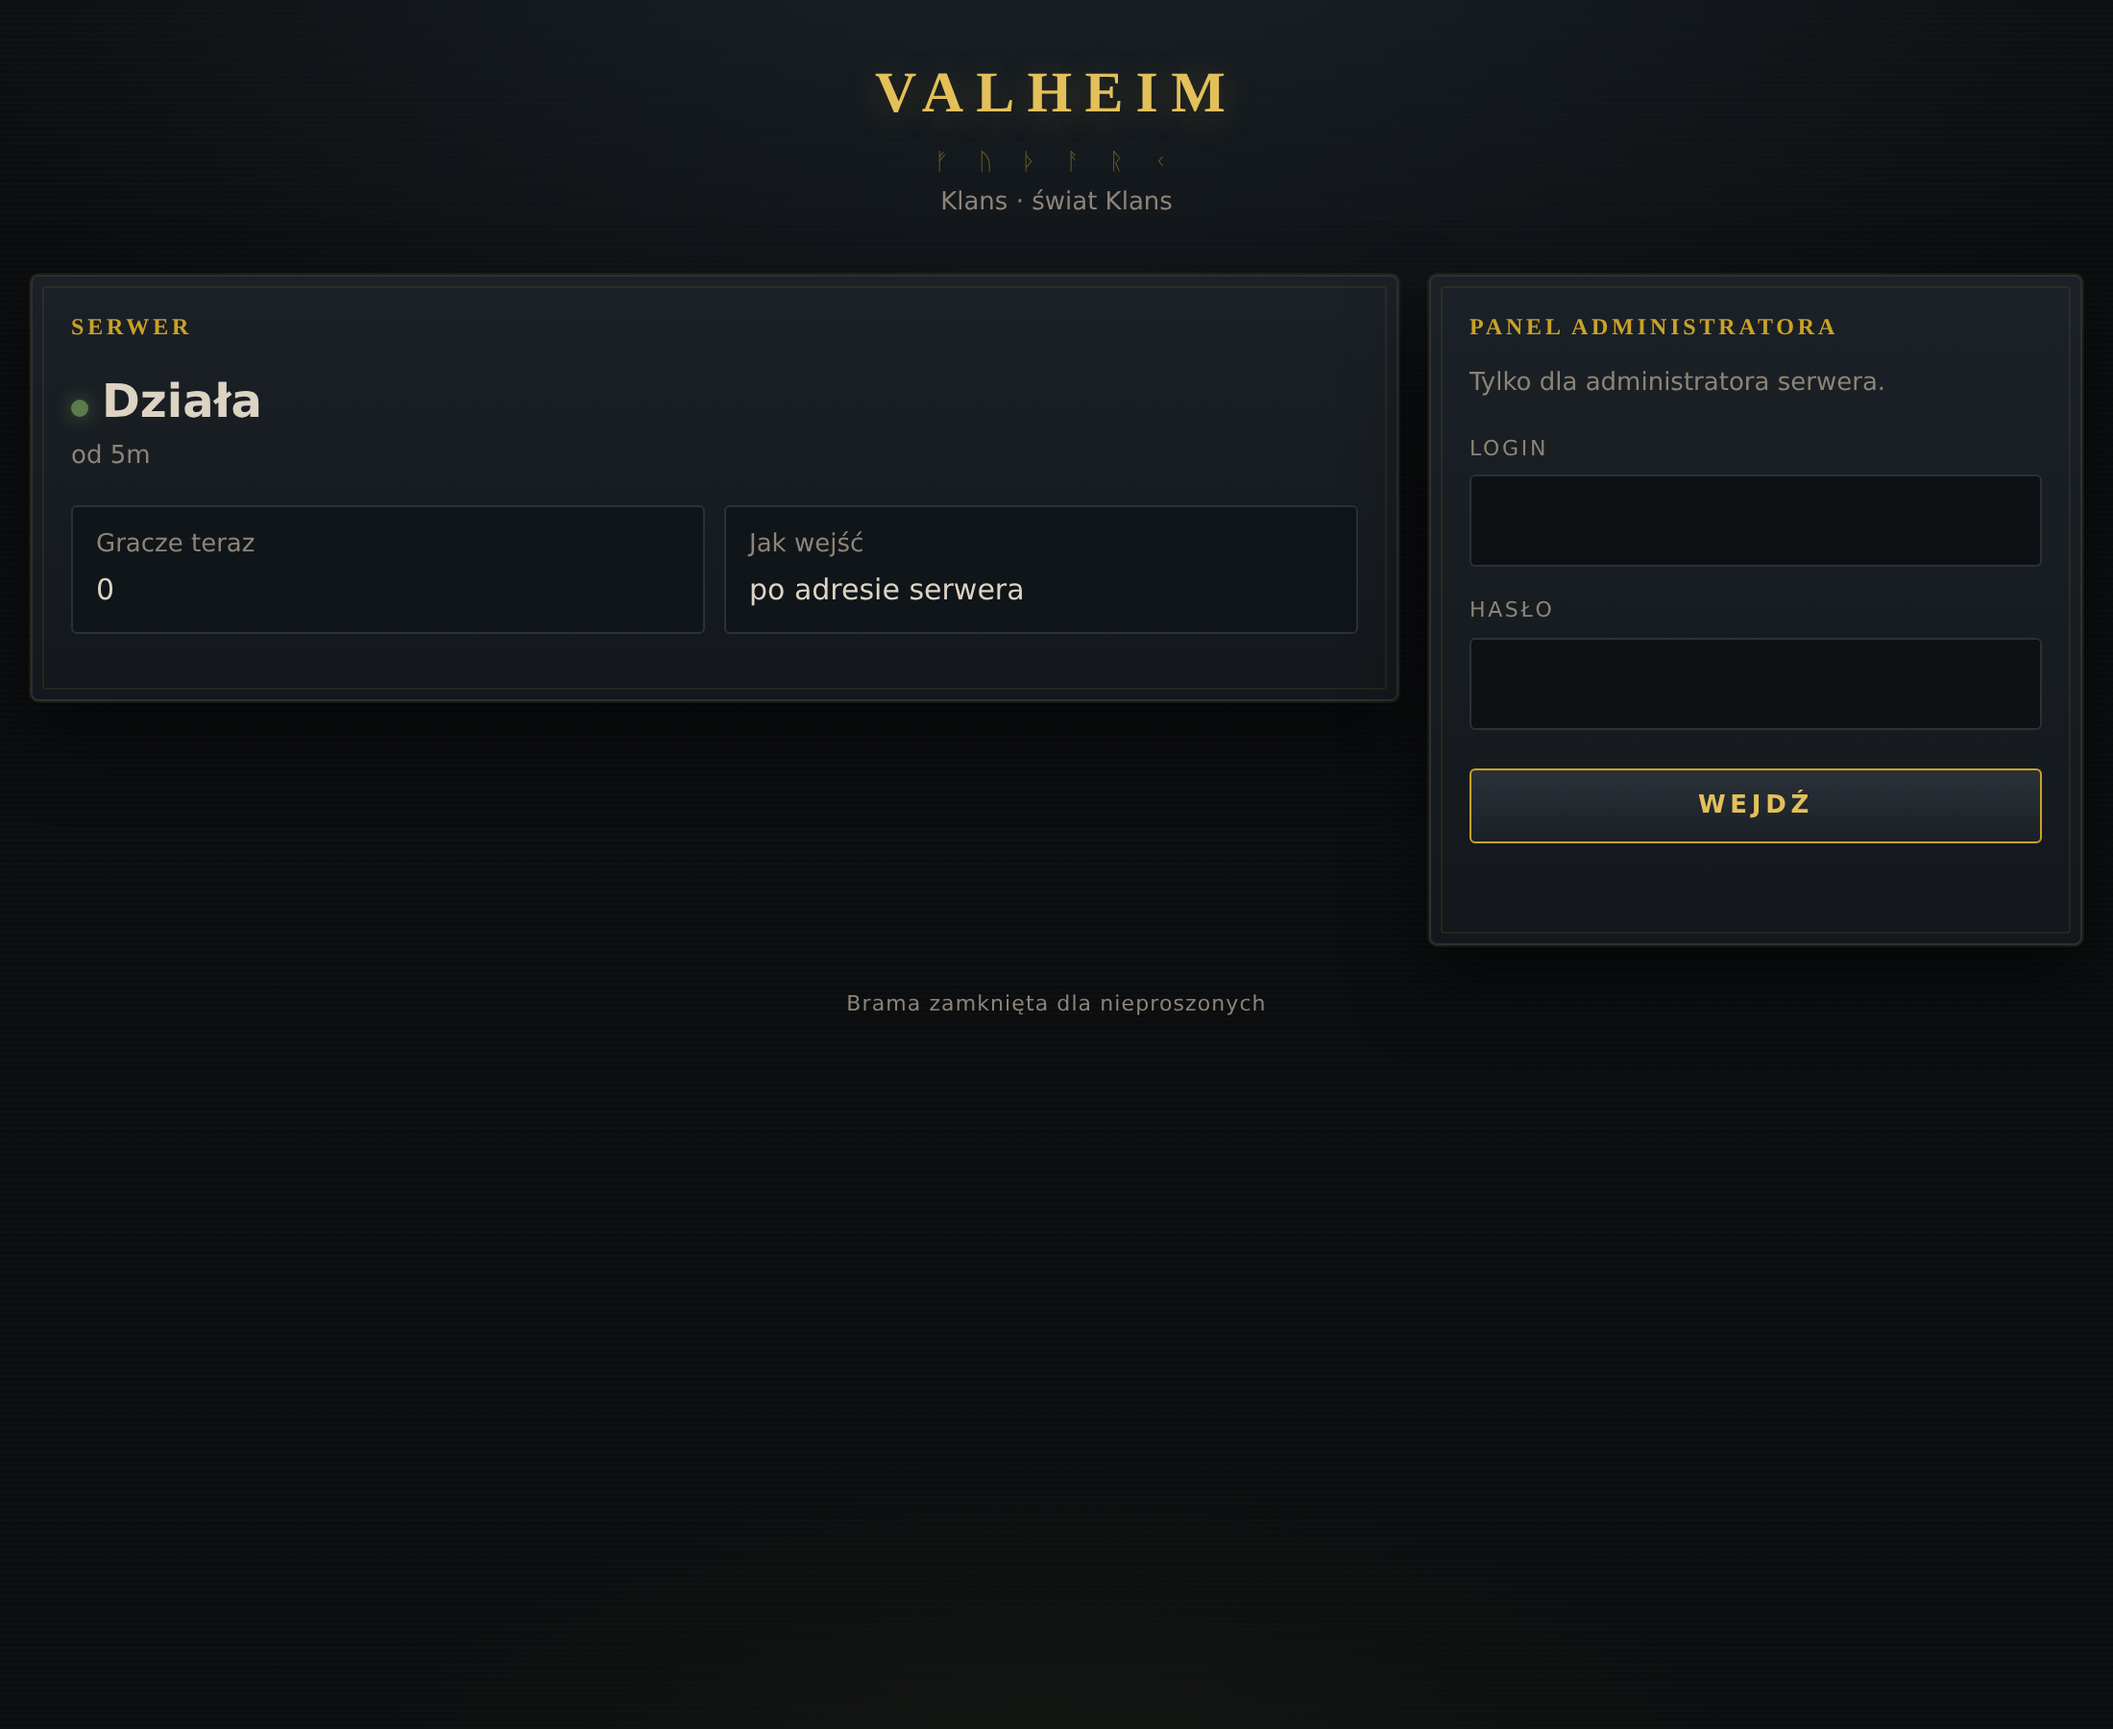
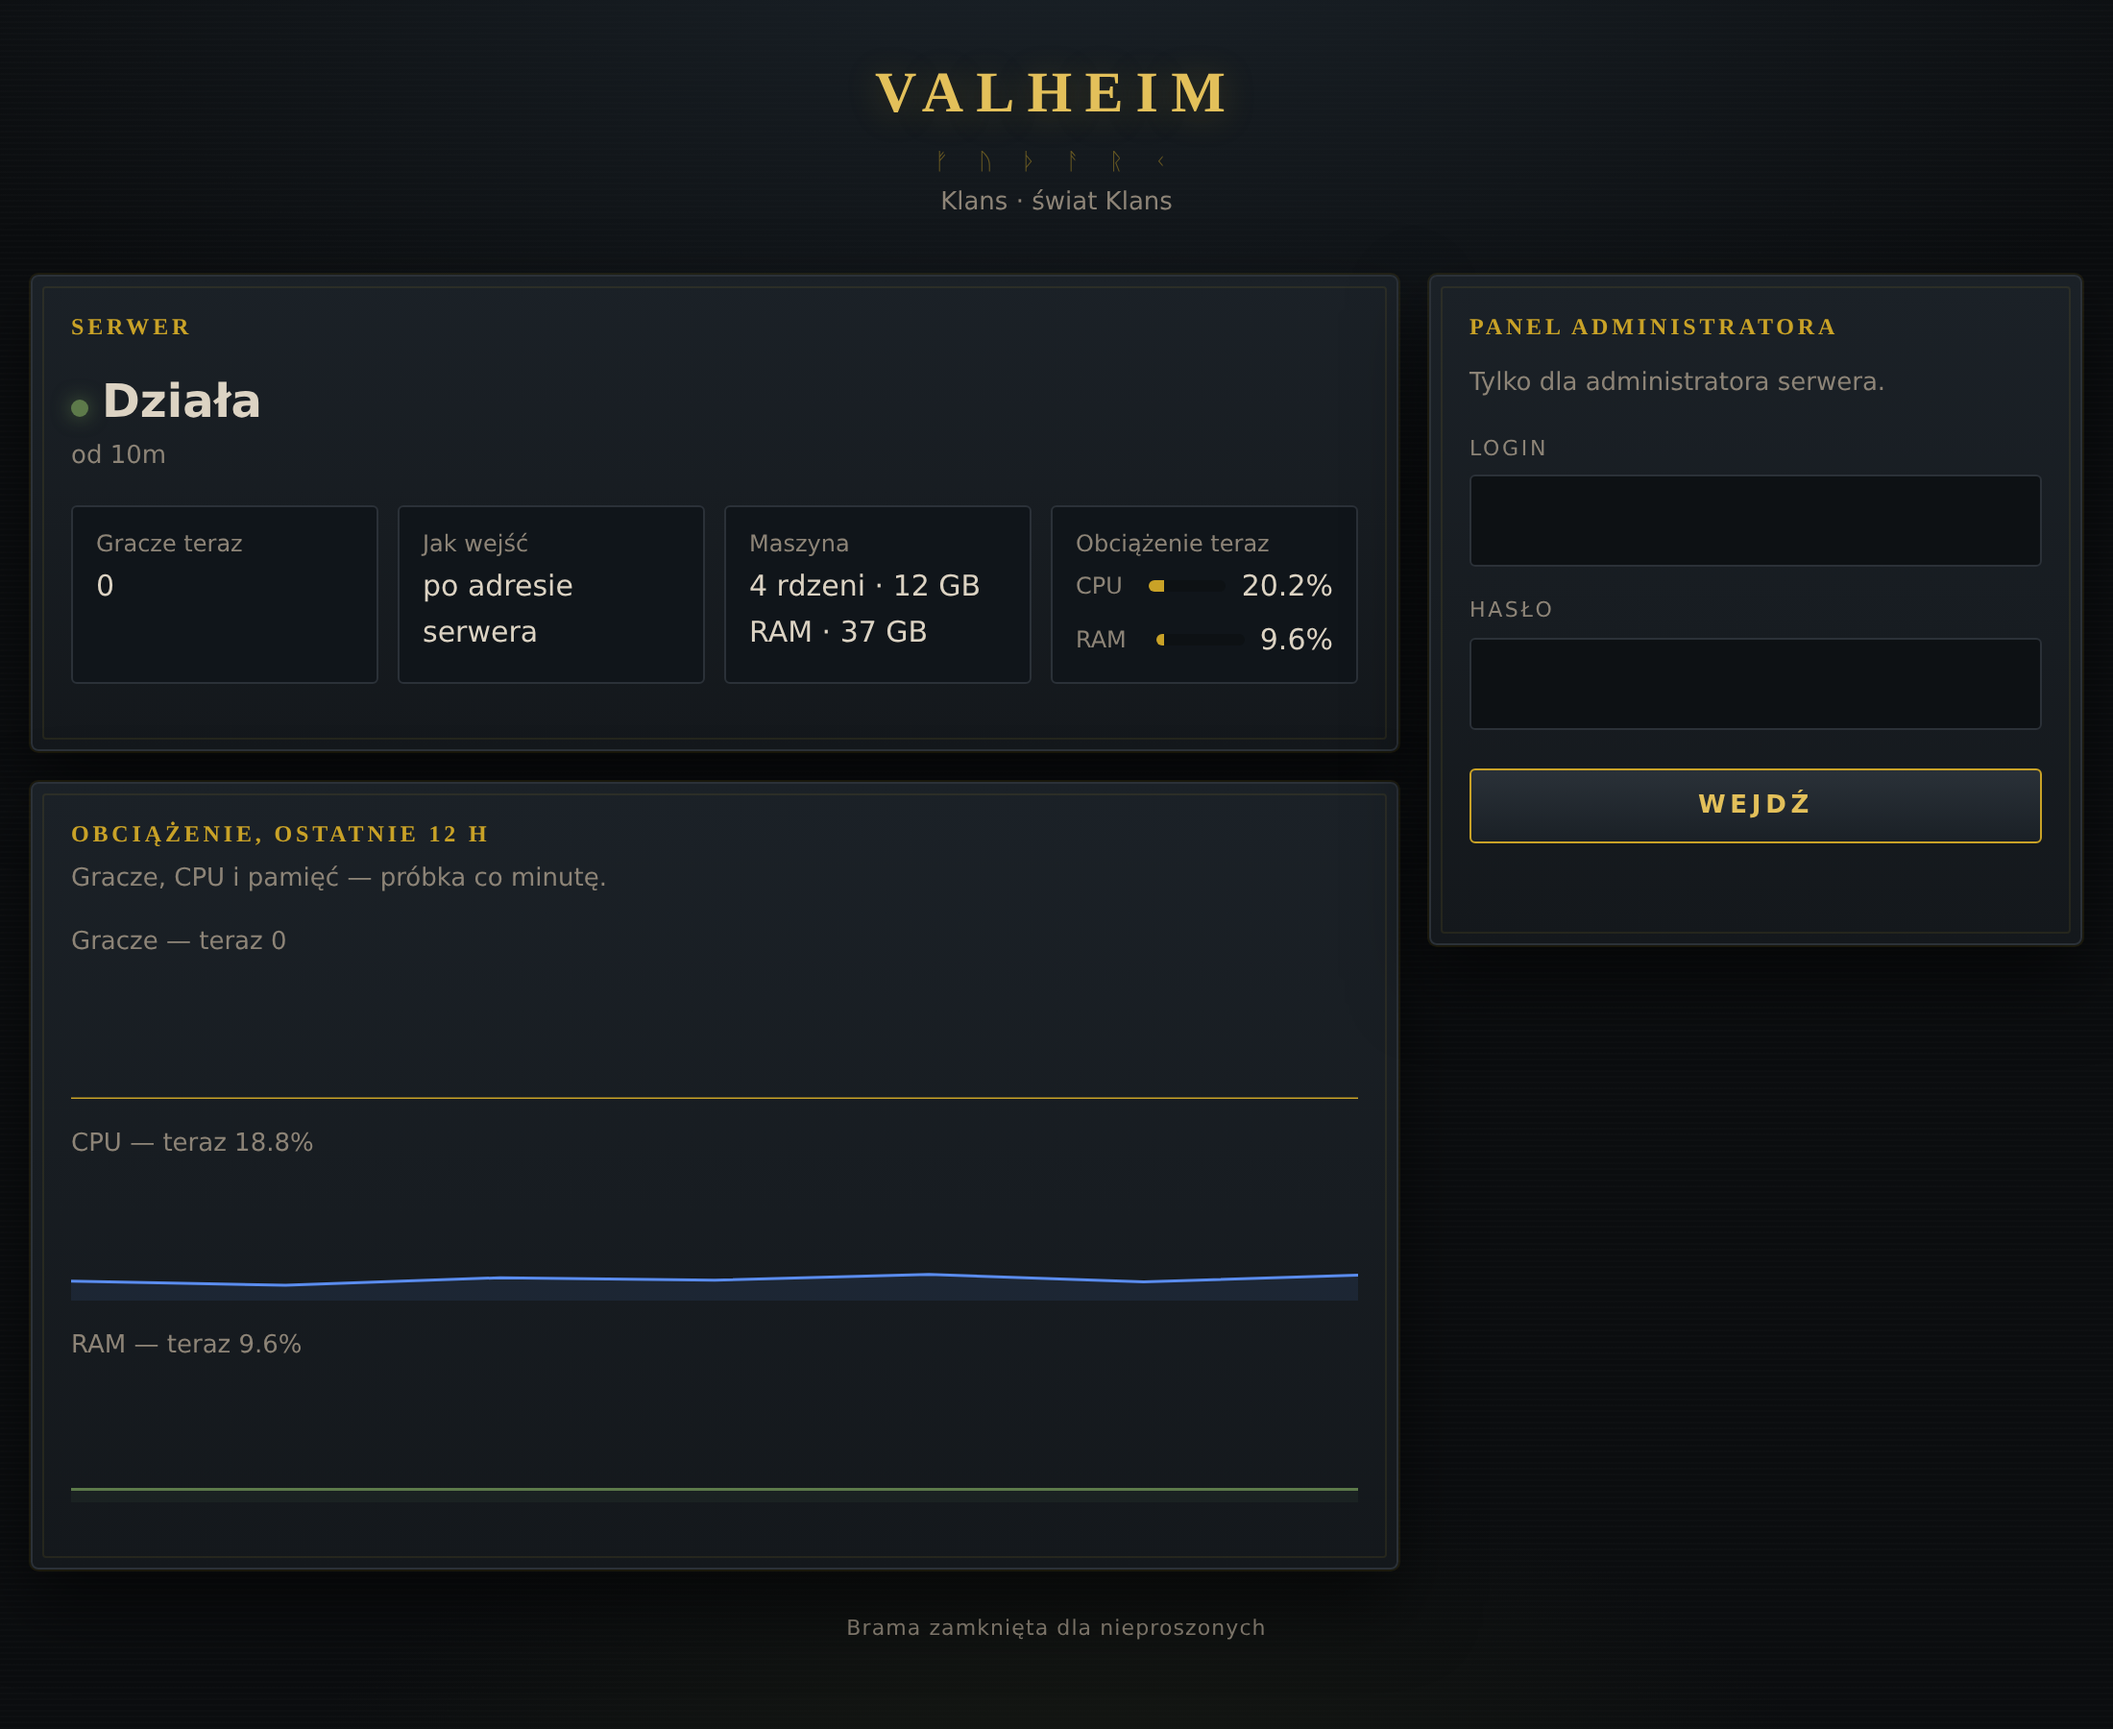
public page: machine specs and a live CPU/RAM reading, behind their own switch

diff --git a/panel/login.html b/panel/login.html
@@ -33,6 +33,7 @@
   .muted{color:var(--dim);font-size:13px}
   .grid{display:grid;gap:10px;grid-template-columns:repeat(auto-fit,minmax(150px,1fr));margin-bottom:14px}
   .cell{background:#10151a;border:1px solid var(--line);border-radius:3px;padding:10px 12px}
+  .cell .muted{font-size:12px}
   .dot{display:inline-block;width:9px;height:9px;border-radius:50%;margin-right:7px}
   .dot.up{background:var(--ok);box-shadow:0 0 10px rgba(93,122,74,.8)}
   .dot.down{background:var(--bad)}
@@ -82,6 +83,7 @@
 
       <div class="box" id="chart-box" style="margin-top:16px;display:none">
         <h2 id="h-charts">Obciążenie, ostatnie 12 h</h2>
+      <div class="muted" style="margin:-6px 0 12px" id="charts-hint">Gracze, CPU i pamięć — próbka co minutę.</div>
         <div id="charts"></div>
       </div>
     </div>
@@ -106,15 +108,21 @@ const PL=!(navigator.language||"").startsWith("en");
 const T=PL?{}:{ "Serwer":"Server","Mody":"Mods","Obciążenie, ostatnie 12 h":"Load, last 12 h",
  "Panel administratora":"Admin panel","Tylko dla administratora serwera.":"Server admin only.",
  "Login":"User","Hasło":"Password","Wejdź":"Enter","Paczka":"Package","Wersja":"Version",
- "Brama zamknięta dla nieproszonych":"The gate stays shut for the uninvited"};
+ "Brama zamknięta dla nieproszonych":"The gate stays shut for the uninvited",
+ "Gracze, CPU i pamięć — próbka co minutę.":"Players, CPU and memory — sampled every minute."};
 const tr=s=>T[s]||s;
-["h-status","h-mods","h-charts","h-login","login-hint","l-user","l-pass","b","th-mod","th-ver","foot"]
+["h-status","h-mods","h-charts","charts-hint","h-login","login-hint","l-user","l-pass","b","th-mod","th-ver","foot"]
   .forEach(id=>{const el=document.getElementById(id);if(el)el.textContent=tr(el.textContent);});
 
 const fmtDur=s=>{s=Math.max(0,Math.floor(s));const d=Math.floor(s/86400),h=Math.floor(s%86400/3600),m=Math.floor(s%3600/60);
   return d?`${d}d ${h}h`:h?`${h}h ${m}m`:`${m}m`;};
 const esc=s=>String(s).replace(/[&<>"]/g,c=>({"&":"&amp;","<":"&lt;",">":"&gt;",'"':"&quot;"}[c]));
 function cell(k,v){return `<div class="cell"><div class="muted">${k}</div><div>${v}</div></div>`;}
+function bar(pct){
+  const col=pct>=90?"var(--bad)":pct>=70?"#b8860b":"var(--gold)";
+  return `<span style="display:inline-block;flex:1;min-width:40px;height:6px;background:#0d1114;border-radius:3px;vertical-align:middle;overflow:hidden">
+    <span style="display:block;height:100%;width:${Math.min(100,pct)}%;background:${col}"></span></span>`;
+}
 
 function chart(title,pts,color,unit,max){
   if(!pts.length)return "";
@@ -150,6 +158,13 @@ async function load(){
     if(d.port)c.push(cell(PL?"Port":"Port",d.port+"–"+(d.port+2)+" UDP"));
     if(d.password_required!==undefined)c.push(cell(PL?"Hasło do wejścia":"Password to join",
       d.password_required?(PL?"tak":"yes"):(PL?"nie":"no")));
+    if(d.specs){
+      const gb=b=>b?(b/1073741824).toFixed(b<10*1073741824?1:0)+" GB":"—";
+      c.push(cell(PL?"Maszyna":"Machine",`${d.specs.cores} ${PL?"rdzeni":"cores"} · ${gb(d.specs.ram)} RAM · ${gb(d.specs.disk)}`));
+      if(d.load)c.push(cell(PL?"Obciążenie teraz":"Load right now",
+        `<div style="display:flex;gap:8px;align-items:center"><span class="muted" style="width:34px">CPU</span>${bar(d.load.cpu)}<span>${d.load.cpu}%</span></div>
+         <div style="display:flex;gap:8px;align-items:center;margin-top:4px"><span class="muted" style="width:34px">RAM</span>${bar(d.load.mem)}<span>${d.load.mem}%</span></div>`));
+    }
     document.getElementById("cells").innerHTML=c.join("");
     if(d.note)document.getElementById("note").textContent=d.note;
 

diff --git a/panel/index.html b/panel/index.html
@@ -455,6 +455,7 @@ const I18N={
  "Load charts":"Wykresy obciążenia",
  "Server version":"Wersja serwera",
  "Port and whether a password is needed":"Port i czy potrzebne jest hasło",
+ "Machine specs and live load":"Parametry maszyny i obciążenie na żywo",
  "Valheim — server admin":"Valheim — panel serwera",
  "Everything a server admin can control. In-game commands (kick, spawn, weather)":"Wszystko, czym steruje admin serwera. Komendy w grze (kick, spawn, pogoda)",
  "live in the F5 console — add yourself to":"są w konsoli F5 — dopisz się do",
@@ -781,7 +782,7 @@ function vhSettings(v){
   if(!$("vh-au-user").value)$("vh-au-user").value=s.panel_user||"admin";
   if(!$("pub-flags").children.length)vhPublic();
 }
-const PUB_LABELS={enabled:"Show the page at all",show_players:"Number of players online",
+const PUB_LABELS={enabled:"Show the page at all",show_specs:"Machine specs and live load",show_players:"Number of players online",
   show_names:"Their names",show_mods:"Mod list and share code",show_metrics:"Load charts",
   show_version:"Server version",show_address:"Port and whether a password is needed"};
 async function vhPublic(){
@@ -1533,7 +1534,7 @@ function vhSettings(v){
   if(!$("vh-au-user").value)$("vh-au-user").value=s.panel_user||"admin";
   if(!$("pub-flags").children.length)vhPublic();
 }
-const PUB_LABELS={enabled:"Show the page at all",show_players:"Number of players online",
+const PUB_LABELS={enabled:"Show the page at all",show_specs:"Machine specs and live load",show_players:"Number of players online",
   show_names:"Their names",show_mods:"Mod list and share code",show_metrics:"Load charts",
   show_version:"Server version",show_address:"Port and whether a password is needed"};
 async function vhPublic(){

diff --git a/panel/app.py b/panel/app.py
@@ -1408,7 +1408,7 @@ METRIC_POINTS = 1440          # one a minute = last 24 h
 # load chart tell a stranger what runs there and when nobody is watching.
 PUBLIC_DEFAULT = {"enabled": True, "show_players": True, "show_names": False,
                   "show_mods": False, "show_metrics": False, "show_version": False,
-                  "show_address": False, "note": ""}
+                  "show_address": False, "show_specs": False, "note": ""}
 VH_COUNT = Path(f"{VH_DIR}/players.count")   # read by update.sh so it can hold off too
 ALERT_EVENTS = {
     "server_down": "Server stopped",
@@ -1541,6 +1541,20 @@ def public_status():
     if cfg.get("show_mods"):
         out["mods"] = [{"full_name": k, "version": v.get("version")} for k, v in sorted(st.get("mods", {}).items())]
         out["profile_code"] = st.get("profile_code")
+    if cfg.get("show_specs"):
+        m = (_sections(_sh("echo '@machine'; cat /proc/loadavg; nproc; "
+                           "awk '/MemTotal|MemAvailable/{print $2}' /proc/meminfo",
+                           timeout=20).stdout).get("machine") or [])
+        try:
+            la = m[0].split()
+            cores, total, avail = int(m[1]), int(m[2]) * 1024, int(m[3]) * 1024
+            disk = _sh(f"df -B1 --output=used,avail {VH_DIR} | tail -1").stdout.split()
+            out["specs"] = {"cores": cores, "ram": total,
+                            "disk": (int(disk[0]) + int(disk[1])) if len(disk) == 2 else None}
+            out["load"] = {"cpu": round(100 * float(la[0]) / cores, 1),
+                           "mem": round(100 * (1 - avail / total), 1)}
+        except Exception:
+            pass
     if cfg.get("show_metrics"):
         try:
             out["metrics"] = json.loads(VH_METRICS.read_text())[-720:]
@@ -1558,7 +1572,7 @@ def public_cfg_get():
 def public_cfg_set(body: dict = Body(...)):
     cfg = _public_cfg()
     for k in ("enabled", "show_players", "show_names", "show_mods", "show_metrics",
-              "show_version", "show_address"):
+              "show_version", "show_address", "show_specs"):
         if k in body:
             cfg[k] = bool(body[k])
     if "note" in body:

diff --git a/README.md b/README.md
@@ -62,7 +62,7 @@ server up or down, uptime, how many are playing, and how to join — with the lo
 It is **minimal on purpose**. Every field is off until you turn it on in **Settings → Public page**,
 because this is visible to the whole internet: a version number narrows down what to try against
 the server, a mod list and a load chart tell a stranger what runs there and when nobody is
-watching. What you can switch on: player count, their names, the mod list with the share code
+watching. What you can switch on: player count, their names, machine specs with a live CPU and memory reading, the mod list with the share code
 (handy — players get everything they need before asking), load charts, server version, port and
 whether a password is required. Plus a free line of your own, e.g. when the server restarts.
 
@@ -363,7 +363,7 @@ statusu**: czy serwer działa, od kiedy, ilu gra i jak wejść — a obok formul
 Jest **celowo minimalna**. Każde pole jest wyłączone, dopóki go nie włączysz w
 **Ustawieniach → Strona publiczna**, bo to widzi cały internet: numer wersji zawęża listę rzeczy
 do wypróbowania przeciw serwerowi, a lista modów i wykres obciążenia mówią obcemu, co tam chodzi
-i kiedy nikt nie patrzy. Do włączenia: liczba graczy, ich nicki, lista modów z kodem udostępniania
+i kiedy nikt nie patrzy. Do włączenia: liczba graczy, ich nicki, parametry maszyny z odczytem CPU i pamięci na żywo, lista modów z kodem udostępniania
 (wygodne — gracz ma wszystko, zanim zapyta), wykresy obciążenia, wersja serwera, port i to, czy
 potrzebne jest hasło. Plus własne zdanie, np. o której serwer się restartuje.
 
